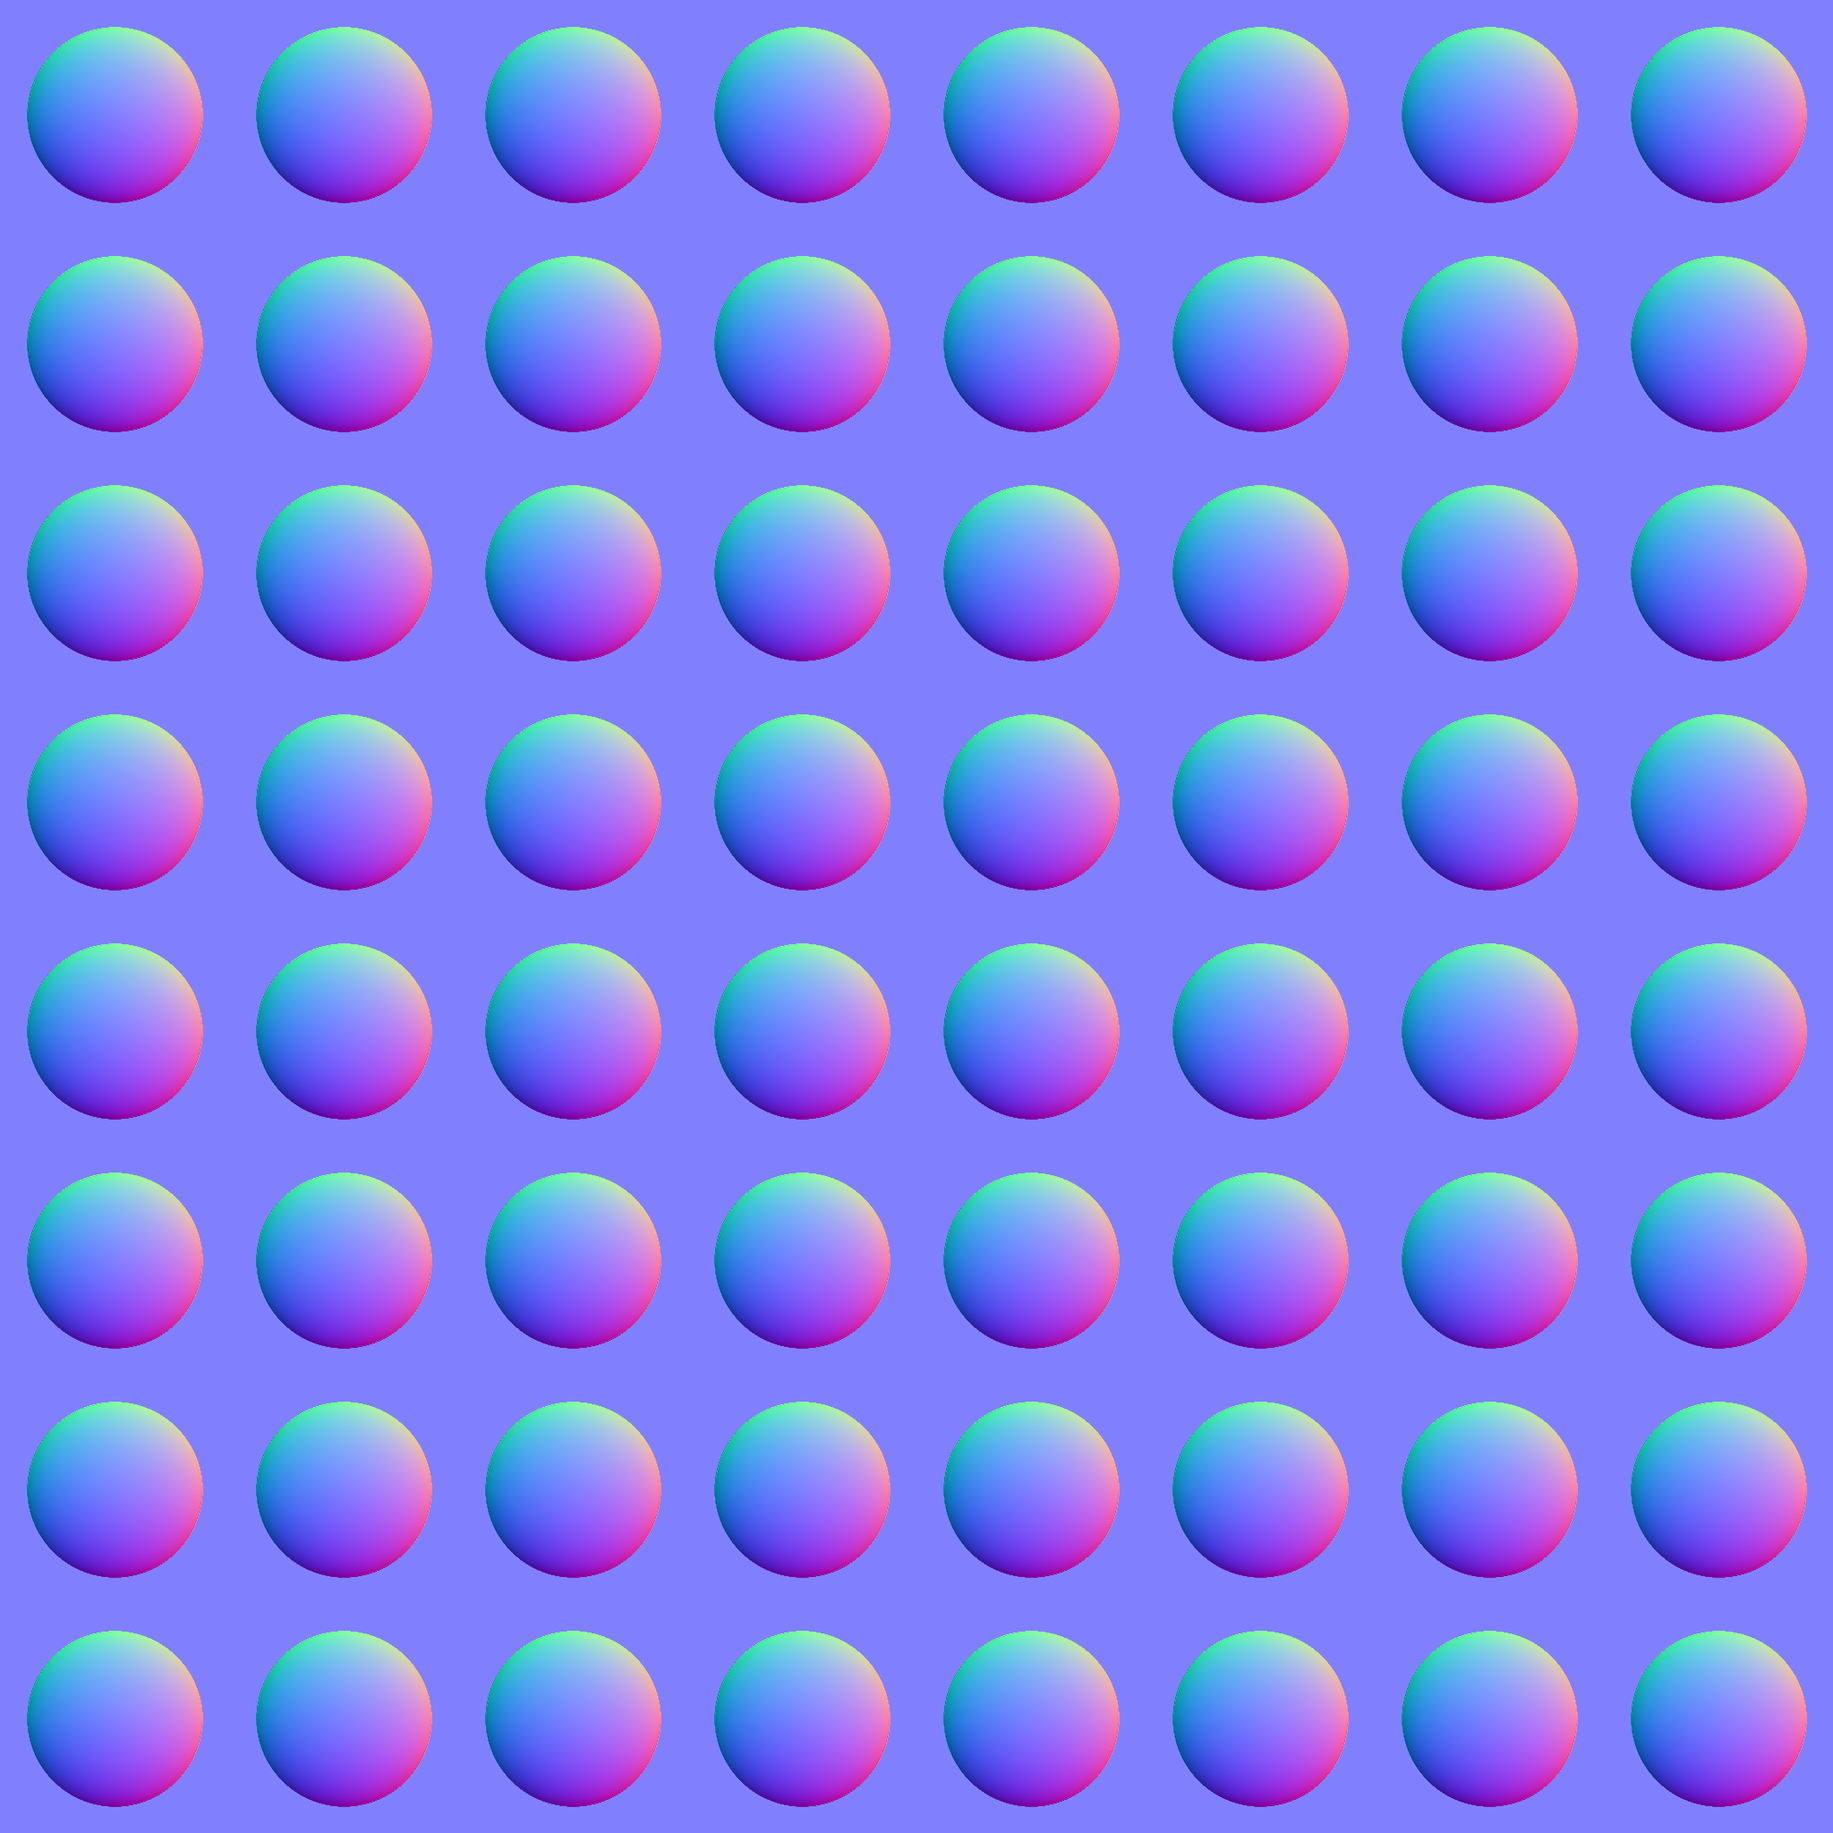
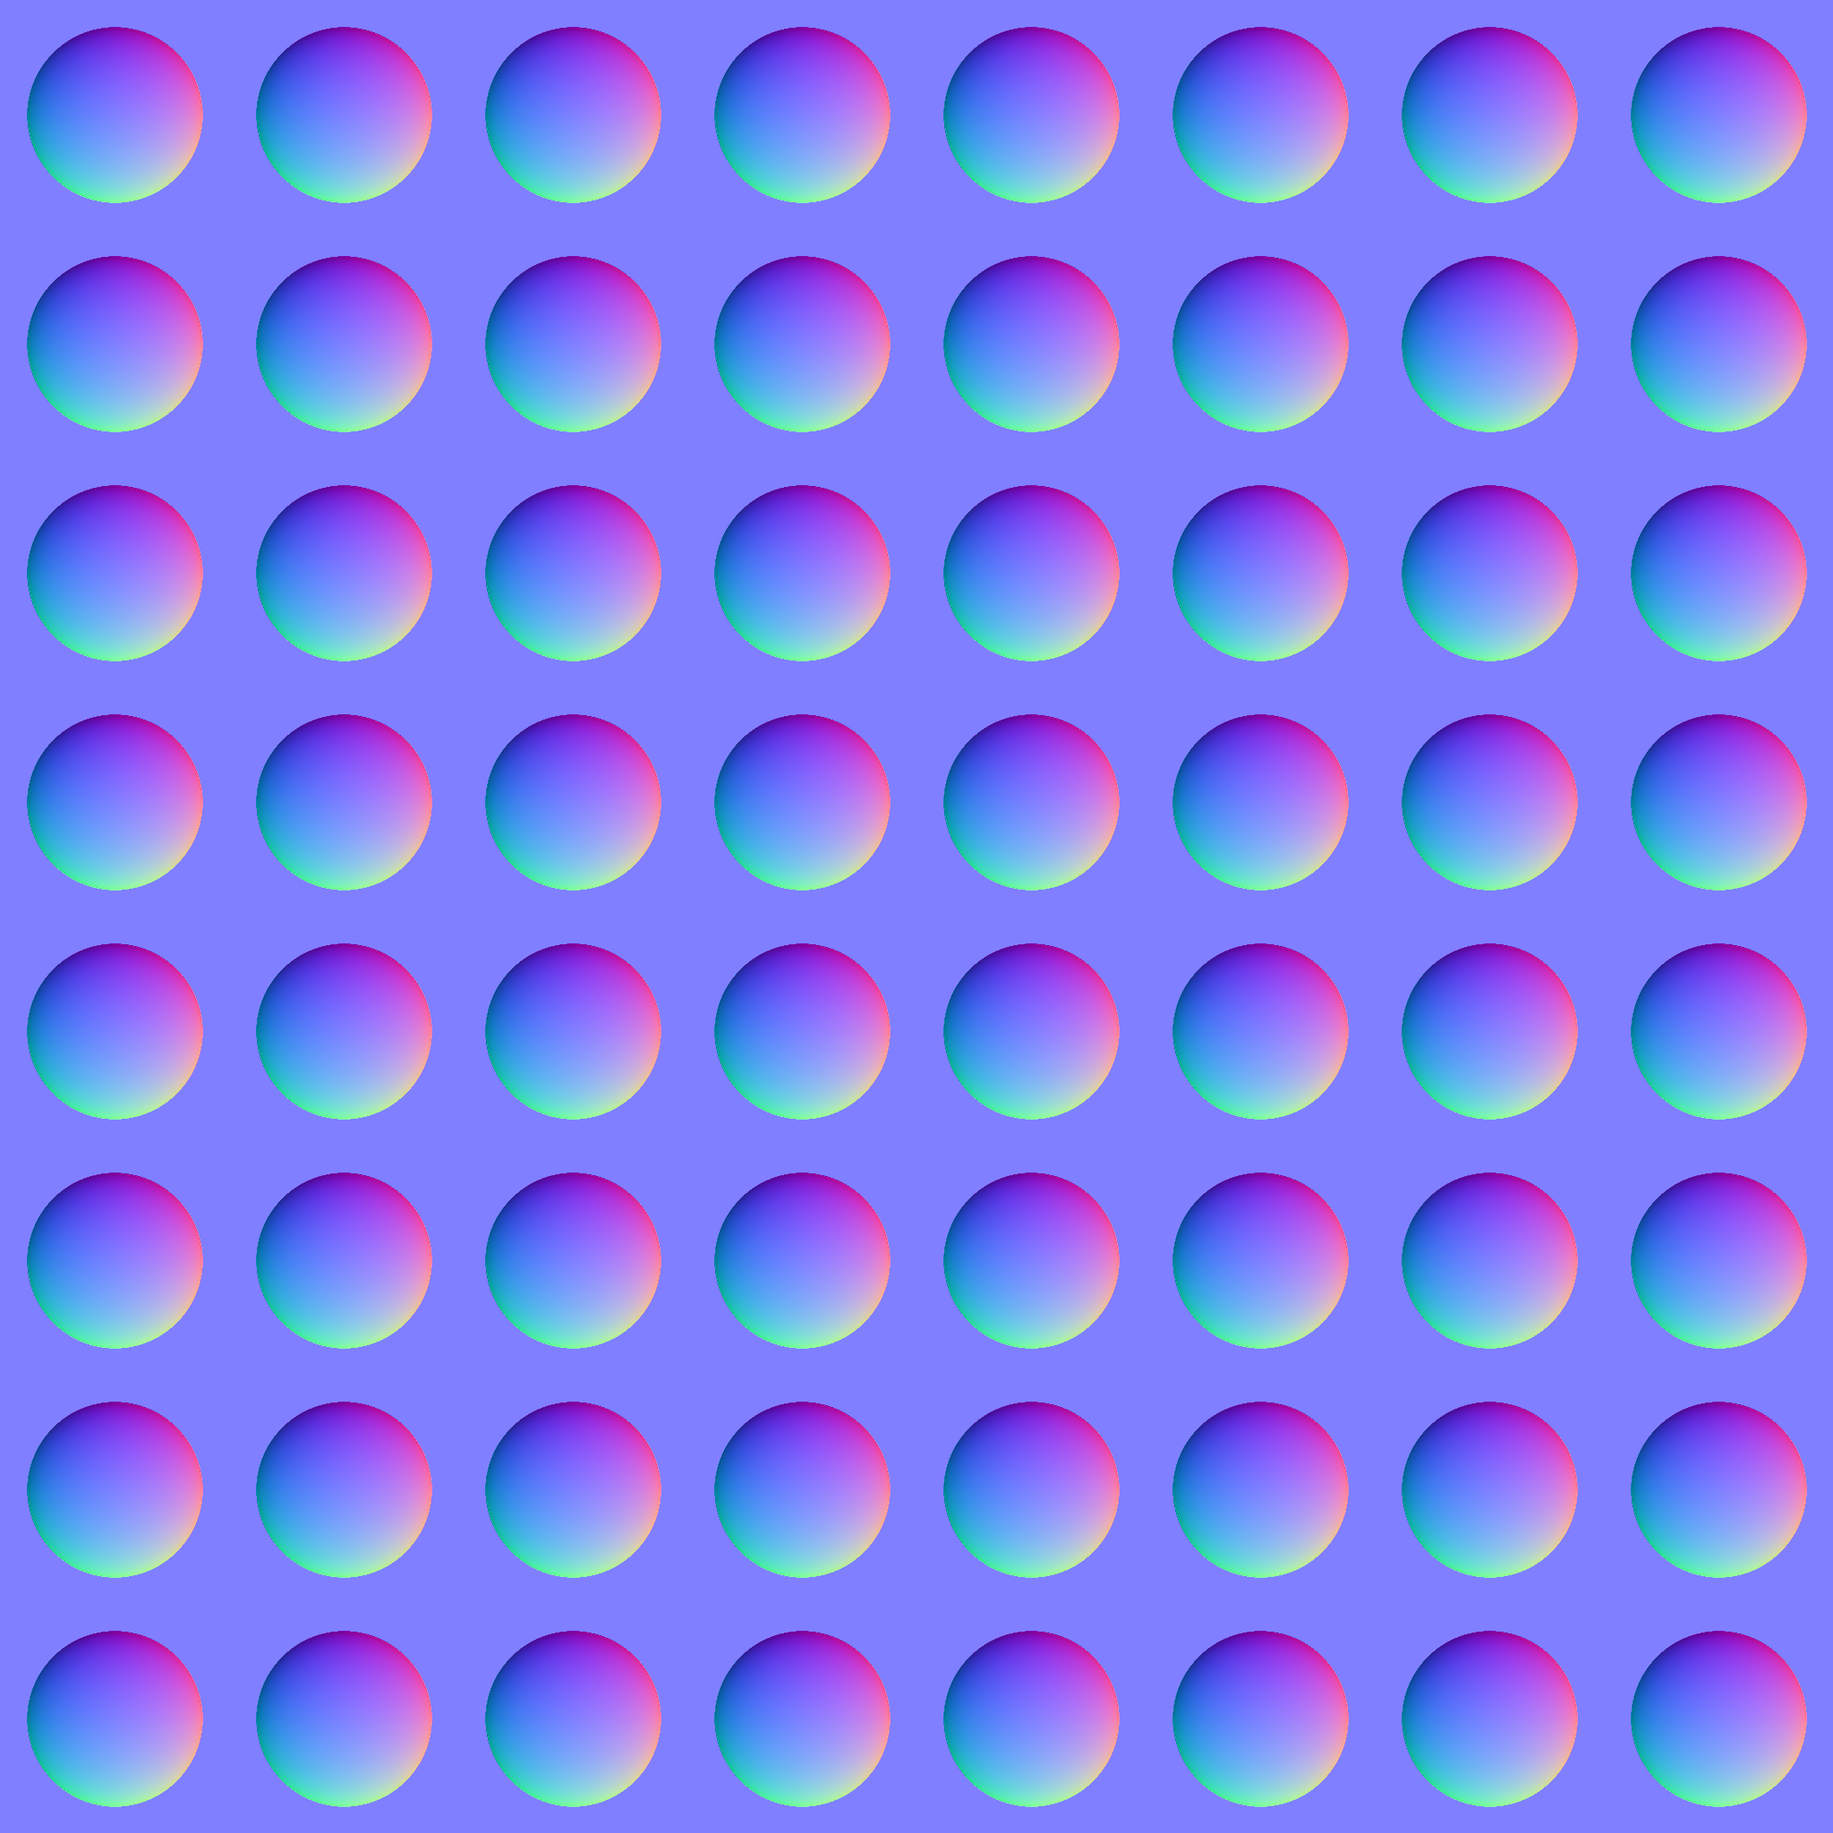
feat(render): make DirectX the canonical normal-map convention
The engine had no stated tangent-space normal convention, and the deferred
TEXTURED shader compensated for that with an in-shader `n_ts.y = -n_ts.y`
green flip. That flip was wrong, and the reasoning behind it was wrong in an
instructive way: it was derived from a vendor FILENAME.

Canon (owner-set): DIRECTX -- green-down, +G = a slope facing image-bottom, the
Unreal convention. The engine now re-signs a normal map NOWHERE: not in the
texture loader, not in the shaders. Every `<pack>/pbr/normal.png` is REQUIRED
to already be DirectX; OpenGL sources are converted once, offline, at asset-prep
time. The sign belongs in the asset pipeline, not in the renderer -- a renderer
that flips can only ever be right for one of the two conventions it receives.

`scripts/normal_ogl_to_dx.py` does the conversion (green inversion, `.ogl.bak`
backup, self-inverse) and, more importantly, MEASURES convention with `--detect`:
correlate the map's green against the pack's own height map, since in image
coords (y down) a height field implies normal `(-dH/dx, -dH/dy, 1)`, so
`corr(green, -dH/dy) > 0` means DirectX. It prints a convention-independent
control, `corr(red, -dH/dx)`, which must come out strongly positive or the two
maps are misaligned and the verdict is void.

Measuring was not optional. `alley-brick-wall` ships its map as
`..._normal-ogl.png` and is DirectX (+0.925, control +0.882), while the SAME
vendor's `industrial-walls_normal-ogl.png` really is OpenGL (-0.730). One
[…]

diff --git a/scripts/normal_ogl_to_dx.py b/scripts/normal_ogl_to_dx.py
@@ -1,0 +1,184 @@
+#!/usr/bin/env python3
+"""Convert OpenGL-convention tangent-space normal maps to this engine's DIRECTX canonical.
+
+This engine's canonical normal-map convention is **DirectX** (green-down: +G = a slope
+facing image-BOTTOM) -- the Unreal Engine convention. The engine NEVER re-signs a normal
+map at runtime: neither the texture loader nor the TEXTURED shaders negate the green
+channel. Every `normal.png` an engine material folder loads is REQUIRED to already be
+DirectX-convention.
+
+Third-party PBR packs almost universally ship the OPENGL convention (green-up; vendors
+label these `*-ogl`). Those are converted ONCE, offline, by this script -- the sign lives
+in the asset pipeline, not in the renderer.
+
+The conversion is a green-channel inversion (`g -> 255 - g`), which is the exact algebraic
+negation of the decoded tangent-space Y axis, with no precision loss:
+
+    decode(255 - g) = 2*(255 - g)/255 - 1 = -(2*g/255 - 1) = -decode(g)
+
+Only the GREEN channel is touched: red (X), blue (Z) and alpha carry data that must not
+change. The conversion is its own inverse -- running this twice restores the original, so
+NEVER run it on an already-DirectX map.
+
+NEVER TRUST THE FILENAME. Vendors mislabel: `assets/materials/alley-brick-wall` ships its
+normal map as `alley-brick-wall_normal-ogl.png` and it is measurably **DirectX**, while the
+same vendor's `industrial-walls_normal-ogl.png` really is OpenGL. Packs from ONE vendor came
+in MIXED conventions under identical `-ogl` naming. Converting a DirectX map "because the
+name says ogl" inverts its relief -- exactly the bug this script exists to avoid.
+
+MEASURE instead, with `--detect`: correlate the normal map's green channel against the pack's
+HEIGHT map (the vendor's own ground truth for the relief). In image coordinates (y DOWN) the
+normal implied by a height field is `(-dH/dx, -dH/dy, 1)`, so:
+
+    corr(green, -dH/dy) > 0  =>  DirectX  (green encodes the y-DOWN axis)
+    corr(green, -dH/dy) < 0  =>  OpenGL   (green encodes the y-UP axis)
+
+`--detect` also prints a CONTROL correlation, `corr(red, -dH/dx)`, which is convention-
+INDEPENDENT and must come out strongly POSITIVE; if it does not, the height map and the
+normal map are not aligned (different bake/scale/crop) and the verdict is not trustworthy.
+
+Usage:
+    python scripts/normal_ogl_to_dx.py --detect <normal.png> <height.png>  # measure, write nothing
+    python scripts/normal_ogl_to_dx.py --check  <normal.png>               # stats, write nothing
+    python scripts/normal_ogl_to_dx.py <normal.png> [<normal.png> ...]     # convert OGL -> DX
+
+Each converted file is rewritten in place after a `<name>.ogl.bak` backup is made (unless
+one already exists, so a re-run never clobbers the pristine source).
+"""
+
+import shutil
+import sys
+from pathlib import Path
+
+from PIL import Image
+
+
+def green_stats(img: Image.Image) -> tuple[float, int, int]:
+    """Returns (mean, min, max) of the green channel."""
+    g = img.getchannel("G")
+    lo, hi = g.getextrema()
+    hist = g.histogram()
+    total = sum(hist)
+    mean = sum(v * c for v, c in enumerate(hist)) / total if total else 0.0
+    return mean, lo, hi
+
+
+def convert(path: Path, check_only: bool) -> int:
+    if not path.is_file():
+        print(f"  SKIP  {path} (not found)")
+        return 1
+
+    img = Image.open(path)
+    fmt_mode = img.mode
+    # Normal maps are RGB/RGBA 8-bit; normalize to RGBA so channel ops are uniform, then
+    # write back in the original mode to avoid gratuitously changing the file's shape.
+    rgba = img.convert("RGBA")
+    mean, lo, hi = green_stats(rgba)
+    print(f"  {path.name}: {img.size[0]}x{img.size[1]} mode={fmt_mode} "
+          f"green mean={mean:.1f} min={lo} max={hi}")
+
+    if check_only:
+        return 0
+
+    r, g, b, a = rgba.split()
+    g = g.point(lambda v: 255 - v)
+    out = Image.merge("RGBA", (r, g, b, a))
+    if fmt_mode == "RGB":
+        out = out.convert("RGB")
+
+    backup = path.with_suffix(path.suffix + ".ogl.bak")
+    if not backup.exists():
+        shutil.copy2(path, backup)
+        print(f"    backup -> {backup.name}")
+    else:
+        print(f"    backup exists ({backup.name}), not overwritten")
+
+    out.save(path)
+    new_mean, new_lo, new_hi = green_stats(Image.open(path).convert("RGBA"))
+    print(f"    CONVERTED OpenGL -> DirectX: green mean {mean:.1f} -> {new_mean:.1f} "
+          f"(min {new_lo}, max {new_hi})")
+    return 0
+
+
+def detect(normal_path: Path, height_path: Path) -> int:
+    """Measures a normal map's convention against the pack's HEIGHT map (ground truth).
+
+    Prints the DirectX/OpenGL verdict plus a convention-independent control correlation
+    that validates the two maps are actually aligned. See this module's doc.
+    """
+    try:
+        import numpy as np
+    except ImportError:
+        print("  --detect needs numpy (pip install numpy)")
+        return 2
+    for p in (normal_path, height_path):
+        if not p.is_file():
+            print(f"  SKIP  {p} (not found)")
+            return 1
+
+    h_img = Image.open(height_path).convert("L")
+    n_img = Image.open(normal_path).convert("RGB")
+    if h_img.size != n_img.size:
+        h_img = h_img.resize(n_img.size)
+    H = np.asarray(h_img, dtype=np.float64)
+    N = np.asarray(n_img, dtype=np.float64)
+
+    # Central differences; y increases DOWNWARD (image row order).
+    dHdy = np.zeros_like(H)
+    dHdy[1:-1, :] = (H[2:, :] - H[:-2, :]) / 2.0
+    dHdx = np.zeros_like(H)
+    dHdx[:, 1:-1] = (H[:, 2:] - H[:, :-2]) / 2.0
+
+    ny = N[:, :, 1] / 255.0 * 2.0 - 1.0
+    nx = N[:, :, 0] / 255.0 * 2.0 - 1.0
+    # Only where the surface actually slopes: flat areas carry no signal, only noise.
+    mask = np.abs(dHdy) > 2.0
+    if int(mask.sum()) < 1000:
+        print("  too few sloped samples -- height map is flat or misaligned; no verdict")
+        return 1
+
+    def corr(a, b):
+        a = a[mask] - a[mask].mean()
+        b = b[mask] - b[mask].mean()
+        return float((a * b).sum() / np.sqrt((a * a).sum() * (b * b).sum()))
+
+    c_dx = corr(ny, -dHdy)
+    c_ctl = corr(nx, -dHdx)
+    verdict = "DirectX" if c_dx > 0 else "OpenGL"
+    print(f"  {normal_path.name} vs {height_path.name}: sloped={int(mask.sum())}")
+    print(f"    corr(green, -dH/dy) = {c_dx:+.3f}  -> {verdict}")
+    print(f"    corr(red,   -dH/dx) = {c_ctl:+.3f}  (control: must be strongly POSITIVE)")
+    if c_ctl < 0.2:
+        print("    WARNING: weak control -- maps may be misaligned; verdict NOT trustworthy")
+    if verdict == "DirectX":
+        print("    => already canonical; do NOT convert.")
+    else:
+        print("    => convert: python scripts/normal_ogl_to_dx.py "
+              f"{normal_path}")
+    return 0
+
+
+def main(argv: list[str]) -> int:
+    flags = {a for a in argv[1:] if a.startswith("--")}
+    args = [a for a in argv[1:] if not a.startswith("--")]
+    if not args:
+        print(__doc__)
+        return 2
+
+    print("normal_ogl_to_dx: engine canonical = DirectX (green-down, Unreal convention)")
+
+    if "--detect" in flags:
+        if len(args) != 2:
+            print("  --detect takes exactly: <normal.png> <height.png>")
+            return 2
+        return detect(Path(args[0]), Path(args[1]))
+
+    check_only = "--check" in flags
+    rc = 0
+    for raw in args:
+        rc |= convert(Path(raw), check_only)
+    return rc
+
+
+if __name__ == "__main__":
+    sys.exit(main(sys.argv))

diff --git a/crates/boyko_render/src/texture.rs b/crates/boyko_render/src/texture.rs
@@ -803,6 +803,14 @@ fn load_slot(
     match PngTextureLoader::decode(&bytes) {
         Ok(mut data) => {
             data.color_space = spec.color_space;
+            // NORMAL-MAP CONVENTION (owner-set 2026-07-16): this engine's CANONICAL
+            // tangent-space normal convention is DIRECTX (green-down: +G = a slope facing
+            // image-BOTTOM) -- the Unreal Engine convention. The engine NEVER re-signs a
+            // normal map: not here, and not in the TEXTURED shaders (which read the map with
+            // no negation). An `assets/materials/<pack>/pbr/normal.png` is REQUIRED to already
+            // be DirectX-convention; OpenGL-convention downloads (`*-ogl` vendor files) are
+            // converted ONCE, offline, at asset-prep time (`scripts/normal_ogl_to_dx.py`).
+            // See that script + `gbuffer_mrt.fs.hlsl`'s GREEN-CHANNEL CONVENTION block.
             let handle = textures.register_texture(ctx, bindless, &data);
             let slot = textures.texture(handle).bindless_slot;
             println!("load_material_folder: loaded {} <- {}", spec.label, path.display());

diff --git a/assets/materials/README.md b/assets/materials/README.md
@@ -27,6 +27,36 @@ Freshly-downloaded packs may arrive as a raw zip extraction (an un-normalized
 folder tree) before being reorganized into the `pbr/` layout above — both shapes
 may coexist here while a pack is staged.
 
+## `normal.png` must be DirectX — measure it, never trust the filename
+
+The engine's canonical tangent-space normal convention is **DirectX** (green-down:
++G = a slope facing image-bottom), the Unreal convention. The engine never re-signs
+a normal map: neither the loader nor the TEXTURED shaders negate green. A pack's
+`pbr/normal.png` is therefore *required* to already be DirectX; OpenGL sources are
+converted once, offline, when the pack is staged:
+
+```
+python scripts/normal_ogl_to_dx.py <pack>/pbr/normal.png    # green-inverts in place, keeps a .ogl.bak
+```
+
+**Vendor filenames lie.** `alley-brick-wall` ships its map as
+`alley-brick-wall_normal-ogl.png` and is measurably DirectX, while the *same
+vendor's* `industrial-walls_normal-ogl.png` really is OpenGL — one vendor, mixed
+conventions, identical `-ogl` naming. Converting a DirectX map because the name
+says `ogl` inverts its relief, and brick is the one texture the eye cannot
+adjudicate (light mortar reads as raised; bump/dent is bistable). So measure
+against the pack's own height map instead of guessing:
+
+```
+python scripts/normal_ogl_to_dx.py --detect <pack>/pbr/normal.png <pack>/height.png
+```
+
+It correlates green against the height field's implied slope and prints the
+verdict plus a convention-independent control correlation that must come out
+strongly positive (otherwise the two maps are misaligned and the verdict is void).
+Packs with no height map and a near-flat normal (e.g. `light-gold`) are
+unmeasurable — leave them alone rather than guess.
+
 ## `_renders/`
 
 Ephemeral eval-output screenshots/comparisons produced while visually judging

diff --git a/crates/boyko_app/assets/pbr_fixtures/README.md b/crates/boyko_app/assets/pbr_fixtures/README.md
@@ -7,12 +7,24 @@ ONE specific convention the textured-PBR pipeline depends on. Point
 
 ## `synth_bumps/`
 
-A synthetic OpenGL-convention bump grid: known-protruding geometry baked into
-`normal.png` (plus a matching `albedo.png` / `ao.png` / `metallic_roughness.png`).
-The normal-map GREEN-CHANNEL CONVENTION oracle — under correct green-channel
-handling the bumps must visibly light FROM the sun side; an inverted green channel
-renders them as dents instead of bumps (see `gbuffer_mrt.fs.hlsl`'s
-GREEN-CHANNEL CONVENTION block).
+A synthetic bump grid: known-protruding geometry baked into `normal.png` (plus a
+matching `albedo.png` / `ao.png` / `metallic_roughness.png`). The normal-map
+GREEN-CHANNEL CONVENTION oracle — under correct green-channel handling the bumps
+must visibly light FROM the sun side; an inverted green channel renders them as
+dents instead of bumps (see `gbuffer_mrt.fs.hlsl`'s GREEN-CHANNEL CONVENTION
+block).
+
+The baker emitted OpenGL green-up; the committed `normal.png` is the **DirectX**
+conversion of it (`scripts/normal_ogl_to_dx.py`, 2026-07-16), because DirectX is
+the engine's canonical convention and the engine re-signs nothing at runtime. This
+fixture is a valid oracle only while it stays canonical: if the baker is ever
+re-run, convert its output again before committing.
+
+Unlike a vendor pack, this fixture's convention is *known* rather than measured —
+it was produced in-repo. For third-party packs the filename is not evidence (one
+vendor ships mixed conventions under identical `-ogl` names); measure them against
+their height map with `normal_ogl_to_dx.py --detect`, as `assets/materials/README.md`
+describes.
 
 ## `synth_marker/`
 
